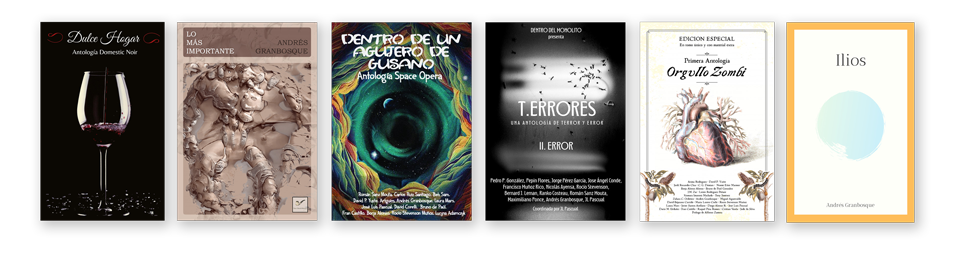
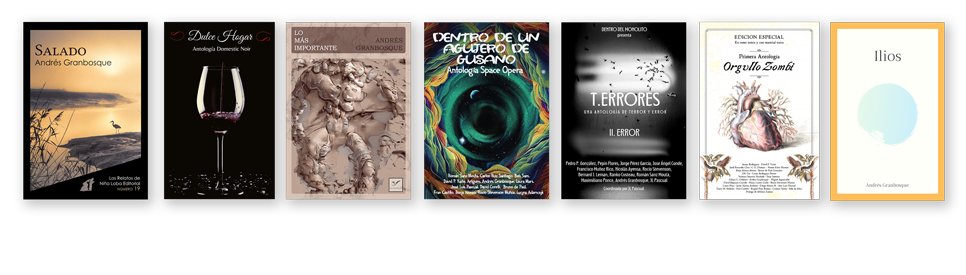
salado

diff --git a/about/index.html b/about/index.html
@@ -123,6 +123,22 @@
 
 <p>En estos momentos me encuentro trabajando en <a href="/2019/10/23/el-enemigo-comun-hormigas/">mi primera novela</a>, y tengo publicados algunos relatos. En orden cronológico inverso:</p>
 
+<h2 id="salado">Salado</h2>
+<h3 id="publicado-en-la-colección-los-relatos-de-niña-loba-editorial">Publicado en la colección <em>Los relatos de Niña Loba Editorial</em></h3>
+
+<p><a href="https://lektu.com/l/editorial-nina-loba/salado/16951"><img src="/assets/img/salado.jpg" alt="Portada del relato" class="align-left" /></a></p>
+
+<p><em>Atamai nunca se ha alejado de la costa porque no creía posible vivir sin sumergir sus pies en el mar.En su viaje conocerá pueblos con una forma de pensamiento muy diferente, que hablan con palabras desconocidas y tienen creencias extrañas.</em></p>
+
+<p>Sin desvelar mucho, porque me parece más interesante mantener la intriga, <em>Salado</em> es un relato que se podría calificar como <em>especulación antropológia</em> o <em>lingüística-ficción</em>. Es una reflexión, partiendo de la fantasía, sobre el sentido de pertenenencia comunidad frente a la individualidad, incidiento en <em>palabras</em> que representan conceptos inmateriales, que solo tienen sentido en un contexto colectivo.</p>
+
+<blockquote>
+  <p>La editorial <a href="https://www.ninalobaeditorial.es/">Niña Loba</a> publica cada semana un relato formato digital con la filosofía 
+adaptar la filosofía de la edición tradicional a los nuevos usos de la literatura. Los relatos estarán disponibles en LEKTU mediante la herramienta de pago dinámico. Esto quiere decir que sois vosotros quienes elegís el precio del relato, desde 0€ hasta el infinito.</p>
+</blockquote>
+
+<p>Descargar aquí 👉 <a href="https://lektu.com/l/editorial-nina-loba/salado/16951">Lektu</a></p>
+
 <h2 id="talento">Talento</h2>
 <h3 id="relato-incluído-en-dulce-hogar">Relato incluído en <em>Dulce Hogar</em></h3>
 
